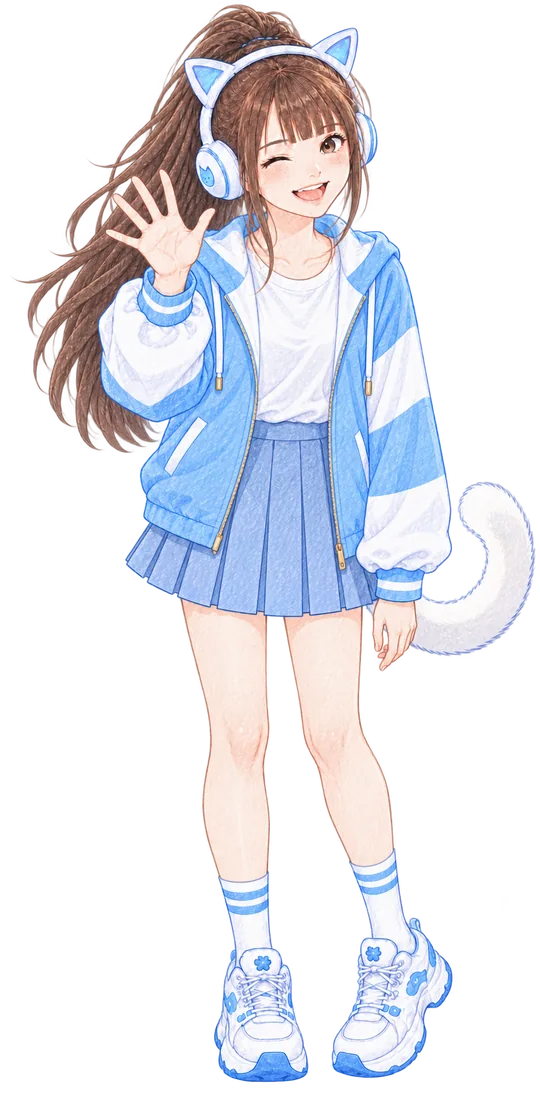
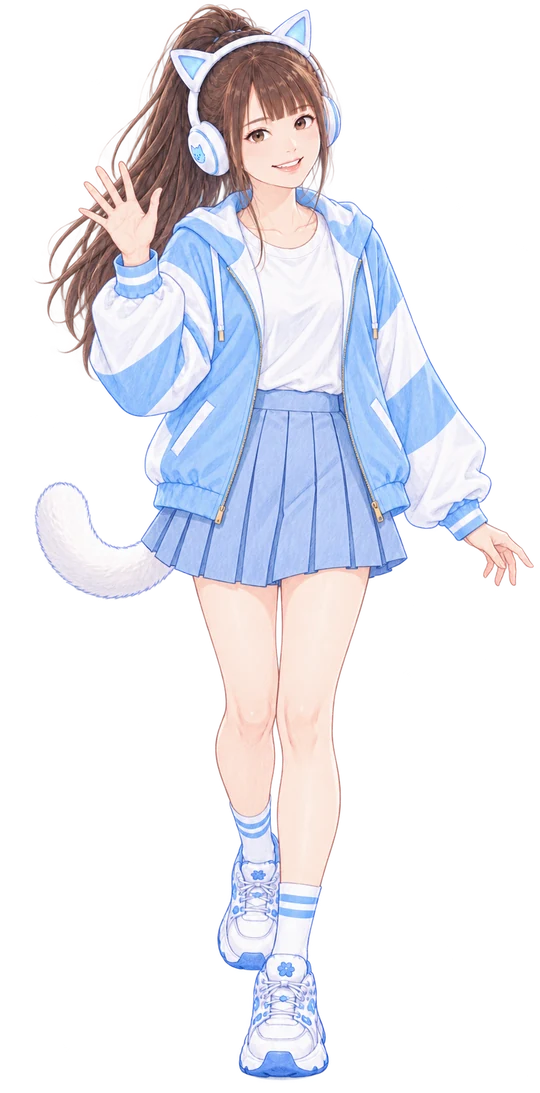
簡介全身換成走路揮手 B 版，含江江 22:08 排版編輯器存檔

diff --git a/site/edit-overrides.css b/site/edit-overrides.css
@@ -19,7 +19,8 @@
 @media (min-width:1367px){html:has(link[data-ep="home"]) div.find.sy-sticky{transform:translate(19.3px,11.9px) rotate(-0.5deg) scale(1)!important}}
 /* @anchor home | div.find.sy-sticky > img.sy-doodle | 761 1366 1367 1920 */
 @media (min-width:761px) and (max-width:1366px){html:has(link[data-ep="home"]) div.find.sy-sticky > img.sy-doodle{transform:translate(-43.5px,19.7px) rotate(8deg) scale(1)!important}}
-@media (min-width:1367px){html:has(link[data-ep="home"]) div.find.sy-sticky > img.sy-doodle{transform:translate(4.2px,-10px) rotate(8deg) scale(1)!important}}
+@media (min-width:1367px) and (max-width:1920px){html:has(link[data-ep="home"]) div.find.sy-sticky > img.sy-doodle{transform:translate(calc(4.2px + -27 * (100vw - 1367px) / 553),calc(-10px + 39.1 * (100vw - 1367px) / 553)) rotate(8deg) scale(1)!important}}
+@media (min-width:1920px){html:has(link[data-ep="home"]) div.find.sy-sticky > img.sy-doodle{transform:translate(-22.8px,29.1px) rotate(8deg) scale(1)!important}}
 /* @anchor home | div.about-art > img | 761 1366 1367 1920 */
 @media (min-width:761px) and (max-width:1366px){html:has(link[data-ep="home"]) div.about-art > img{transform:translate(calc(29.6px + 23.6 * (100vw - 761px) / 605),calc(-42.6px + -33.8 * (100vw - 761px) / 605)) rotate(0deg) scale(1.07)!important}}
 @media (min-width:1367px){html:has(link[data-ep="home"]) div.about-art > img{transform:translate(53.2px,-76.4px) rotate(0deg) scale(1.07)!important}}

diff --git a/site/index.html b/site/index.html
@@ -26,7 +26,7 @@
 <!-- 手寫小字字型：只載入用到的字（text= 子集），改註記文字時要補字 -->
 <link href="https://fonts.googleapis.com/css2?family=LXGW+WenKai+TC&display=swap" rel="stylesheet">
 <link rel="stylesheet" href="/suya.css?v=20261015k">
-<link rel="stylesheet" href="/edit-overrides.css?v=20261014215457" data-ep="home">
+<link rel="stylesheet" href="/edit-overrides.css?v=20261014220846" data-ep="home">
 <style>
 /* 首頁｜素雅版（2026-10-14） */
 *{box-sizing:border-box;margin:0;padding:0}
@@ -294,7 +294,7 @@ footer .sign-hand{display:block;margin:6px auto 0;--r:-2deg;font-size:20px}
         </div>
         <div class="about-art">
           <span class="sy-hand" aria-hidden="true">什麼都想試試看</span>
-          <img src="/dora-wink-full.webp?v=4" width="440" height="891" loading="lazy" alt="朵拉全身色鉛筆插畫：身體往前傾、眨眼揮手打招呼，白色貓尾巴翹起來">
+          <img src="/dora-wink-full.webp?v=5" width="440" height="891" loading="lazy" alt="朵拉全身插畫：一邊往前走一邊笑著揮手打招呼，白色貓尾巴翹起來">
         </div>
       </div>
 
